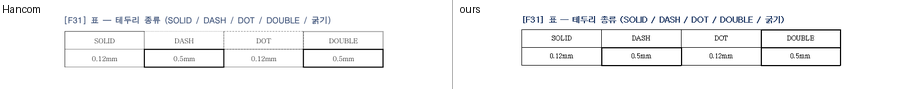
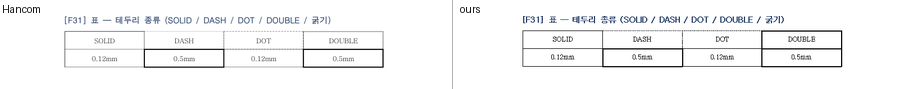
docs: re-measure render-check-01 on the converged tree
`render_check.py` re-run at 96 dpi against the same Hancom reference:
report.json, the markdown result table and all 51 strips regenerated.

**1 · 32 · 16 · 2 -> 1 match · 35 close · 13 differs · 2 unsupported.**
Three features moved, each with a named mechanism:

- `F47` 표 — 쪽을 넘기는 표, IoU 0.025 -> 0.535, from the inline-table move
  rule (#210). Measured alone on the table-move head: 1 · 33 · 15 · 2.
- `F31` 표 — 테두리 종류, IoU 0.222 -> 0.376, and `F32` 표 — 셀 세로 정렬,
  IoU 0.205 -> 0.479, both from the `hp:outMargin` inset (#211) putting the
  table box where Hancom puts it.

The bundled-faces tier (#208) is a measured no-op on this document: it
declares only 바탕, 돋움, 궁서 and all three resolve installed
(`batang.ttc`, `gulim.ttc`), so `BundledFontMap` is never reached. That is
what makes the attribution above safe, and it also corrects a stale
*Not proven* bullet claiming no declared face resolves.

Means over 51 features: ssim 0.7813 -> 0.7918, ssim_inked 0.1218 -> 0.1396,
IoU 0.3429 -> 0.3728. Page agreement unchanged at 45/51. Page count moved
the wrong way, 10 -> 11 against Hancom's 9, and note 1 now says why: moving
the table whole removed the term that used to cancel the height drift.

Claude-Session: https://claude.ai/code/session_018vMb825boFbJ811WVqBuS4

Changed region(s): [[0.5575, 0.3146, 0.9602, 0.764]]

diff --git a/docs/research/render-check-01.md b/docs/research/render-check-01.md
@@ -29,7 +29,7 @@ python engine/scripts/render_check.py \
 | Reference | Hwp 2024 13.0.0.2986 / Hancom PDF 1.3.0.550, via `com_backend.py convert` |
 | Candidate | `rigorloom-own` 0.1.0, grade `own-uncertified`, `--dpi 96`, default `auto` layout policy |
 | 1:1 | `render_scoreboard.reference_geometry_scale` = **0.995** (declared median 10.00 pt vs reference median 9.95 pt, tolerance 0.05) — comparable, no scale correction applied |
-| Page count | reference **9**, candidate **10** — *not* exact; see note 1 |
+| Page count | reference **9**, candidate **11** — *not* exact; see note 1 |
 | Hancom acceptance | a COM open+save round-trip of the document keeps all 51 feature elements |
 
 Regions are derived, never hand-placed, and the two sides are located
@@ -70,7 +70,27 @@ has been scored with them.
 
 ## Result
 
-**1 match · 32 close · 16 differs · 2 unsupported** over 51 features.
+**1 match · 35 close · 13 differs · 2 unsupported** over 51 features.
+
+Measured on the converged E2 tree (`claude/engine-e2-converge`: the
+`hp:outMargin` registration fix #211, the bundled Korean fallback faces #208
+and the inline-table move rule #210 in one tree). Three features moved off
+`differs` since this page was first written against the pre-convergence tree
+(**1 · 32 · 16 · 2**):
+
+| feature | before | after | mechanism |
+|---|---|---|---|
+| `F47` 표 — 쪽을 넘기는 표 | IoU 0.025 `differs` | IoU 0.535 `close` | #210 — an inline (글자처럼 취급) table never splits; it moves whole, as Hancom's does. See note 2 |
+| `F31` 표 — 테두리 종류 | IoU 0.222 `differs` | IoU 0.376 `close` | #211 — the `hp:outMargin` inset puts the table box where Hancom puts it, so the grids overlap. See note 3 |
+| `F32` 표 — 셀 세로 정렬 | IoU 0.205 `differs` | IoU 0.479 `close` | #211, same inset |
+
+Means over the 51 features: `ssim` 0.7813 → 0.7918, `ssim_inked` 0.1218 →
+0.1396, IoU 0.3429 → 0.3728. Page agreement is unchanged at 45/51 — the same
+six features (`F44`–`F49`) still land on a different page in the two engines.
+The bundled-fonts tier (#208) changed **nothing** on this document: it
+declares only 바탕, 돋움 and 궁서, all three installed on the measuring
+machine, so the installed tier wins and `BundledFontMap` is never consulted.
+This is the first measurement with registration and fonts in one tree.
 
 | feature | ssim | ssim(inked) | IoU | ink Δ | page | verdict |
 |---|---|---|---|---|---|---|
@@ -100,12 +120,12 @@ has been scored with them.
 | `F24` [글꼴 — 돋움 (declared face 돋움)](render-check-01/F24.png) | 0.788 | 0.103 | 0.463 | +0.0092 | 3 | **close** |
 | `F25` [글꼴 — 궁서 (declared face 궁서)](render-check-01/F25.png) | 0.803 | 0.186 | 0.477 | +0.0012 | 3 | **close** |
 | `F26` [글자 크기 8 / 10 / 12 / 14 / 18 / 24 pt](render-check-01/F26.png) | 0.848 | 0.170 | 0.409 | +0.0085 | 3 | **close** |
-| `F27` [표 — 기본 격자 (plain grid 3×3)](render-check-01/F27.png) | 0.760 | -0.044 | 0.154 | +0.0175 | 3 | **differs** |
-| `F28` [표 — 셀 병합 (colSpan 2 + rowSpan 2)](render-check-01/F28.png) | 0.740 | 0.051 | 0.137 | +0.0329 | 3 | **differs** |
-| `F29` [표 — 셀 음영 (cell shading #D9D9D9)](render-check-01/F29.png) | 0.748 | 0.285 | 0.309 | +0.0084 | 4 | **close** |
+| `F27` [표 — 기본 격자 (plain grid 3×3)](render-check-01/F27.png) | 0.773 | 0.003 | 0.294 | +0.0175 | 3 | **differs** |
+| `F28` [표 — 셀 병합 (colSpan 2 + rowSpan 2)](render-check-01/F28.png) | 0.747 | 0.052 | 0.137 | +0.0329 | 3 | **differs** |
+| `F29` [표 — 셀 음영 (cell shading #D9D9D9)](render-check-01/F29.png) | 0.894 | 0.700 | 0.757 | +0.0084 | 4 | **close** |
 | `F30` [캡션 — 표 (table caption)](render-check-01/F30.png) | 0.901 | 0.215 | 0.498 | +0.0120 | 4 | **close** |
-| `F31` [표 — 테두리 종류 (SOLID / DASH / DOT / DOUBLE / 굵기)](render-check-01/F31.png) | 0.674 | -0.031 | 0.222 | +0.0208 | 4 | **differs** |
-| `F32` [표 — 셀 세로 정렬 (TOP / CENTER / BOTTOM)](render-check-01/F32.png) | 0.822 | -0.047 | 0.205 | +0.0067 | 4 | **differs** |
+| `F31` [표 — 테두리 종류 (SOLID / DASH / DOT / DOUBLE / 굵기)](render-check-01/F31.png) | 0.723 | 0.117 | 0.376 | +0.0198 | 4 | **close** |
+| `F32` [표 — 셀 세로 정렬 (TOP / CENTER / BOTTOM)](render-check-01/F32.png) | 0.836 | 0.031 | 0.479 | +0.0067 | 4 | **close** |
 | `F33` [그림 — 본문 안 (inline, treatAsChar)](render-check-01/F33.png) | 0.865 | 0.234 | 0.481 | +0.0041 | 4 | **close** |
 | `F34` [캡션 — 그림 (image caption)](render-check-01/F34.png) | 0.831 | 0.108 | 0.401 | +0.0144 | 4 | **close** |
 | `F35` [그림 — 어울림 TOP_AND_BOTTOM (anchored, text wrap)](render-check-01/F35.png) | 0.825 | 0.255 | 0.317 | -0.0098 | 4 | **close** |
@@ -120,9 +140,9 @@ has been scored with them.
 | `F44` [하이퍼링크 (hyperlink field)](render-check-01/F44.png) | 0.843 | 0.122 | 0.432 | +0.0224 | 5/6 | **close** |
 | `F45` [글상자 / 그리기 개체 사각형 (text box)](render-check-01/F45.png) | 0.977 | 0.584 | 0.197 | -0.0024 | 5/6 | **unsupported** |
 | `F46` [쪽 나누기 (page break, pageBreakBefore)](render-check-01/F46.png) | 0.798 | 0.200 | 0.524 | +0.0190 | 6/7 | **close** |
-| `F47` [표 — 쪽을 넘기는 표 (table split across a page)](render-check-01/F47.png) | 0.686 | 0.018 | 0.025 | +0.0406 | 6/7 | **differs** |
-| `F48` [구역 나누기 — 가로 용지 + 다른 여백 (section break, landscape)](render-check-01/F48.png) | 0.943 | 0.068 | 0.268 | +0.0036 | 8/9 | **differs** |
-| `F49` [다단 — 2단 구역 (two-column section)](render-check-01/F49.png) | 0.818 | 0.051 | 0.150 | +0.0085 | 9/10 | **differs** |
+| `F47` [표 — 쪽을 넘기는 표 (table split across a page)](render-check-01/F47.png) | 0.993 | 0.240 | 0.535 | +0.0008 | 6/7 | **close** |
+| `F48` [구역 나누기 — 가로 용지 + 다른 여백 (section break, landscape)](render-check-01/F48.png) | 0.943 | 0.068 | 0.268 | +0.0036 | 8/10 | **differs** |
+| `F49` [다단 — 2단 구역 (two-column section)](render-check-01/F49.png) | 0.818 | 0.051 | 0.150 | +0.0085 | 9/11 | **differs** |
 | `F50` [머리말 (header)](render-check-01/F50.png) | 0.940 | 0.153 | 0.153 | +0.0090 | 1 | **differs** |
 | `F51` [꼬리말 + 쪽 번호 (footer with page number)](render-check-01/F51.png) | 0.974 | 0.154 | 0.156 | +0.0030 | 1 | **unsupported** |
 
@@ -135,7 +155,7 @@ per-feature `band_px` and the declared limits each feature owns, are in
 
 ### 1. Pagination drift: we run one page longer than Hancom
 
-Ours is 10 pages against Hancom's 9, and six features (`F44`–`F49`) land on a
+Ours is 11 pages against Hancom's 9, and six features (`F44`–`F49`) land on a
 different page in the two engines. Two more are page-boundary artefacts rather
 than feature failures: for `F17` (진하게) the reference band is 20 px and ours
 is 77 px, because Hancom pushed the content paragraph onto the next page while
@@ -147,6 +167,13 @@ side — visible in the alignment blocks, where the same filler is three lines
 for us and two or three for Hancom depending on where the space advance lands
 — and that accumulates down the page. On top of that Hancom moves a block that
 would be badly split, where we split in place: see note 2.
+
+*Since fixed, and it cost a page.* Note 2's rule landed, so we no longer split
+that table in place — we move it whole, as Hancom does. That removed the
+second contribution and made the drift **worse** by one page (10 → 11), which
+is the honest outcome: moving the table whole pushes its rows down instead of
+filling the room the split used. The residual is now entirely the first
+contribution, block heights running tall.
 
 ### 2. `F47` 표 — 쪽을 넘기는 표 (IoU 0.025, the largest gap)
 
@@ -168,10 +195,11 @@ the split rule. `own_render`'s own `block_not_honored` list already names
 > that is still too short for it, overflows. Eleven probe variants and three
 > Hancom-authored controls, no exception:
 > [table-page-break-rule.md](table-page-break-rule.md). Fixed there; `F47`
-> now reads `close` (IoU 0.025 → 0.535) and the numbers in the table above
-> are the pre-fix ones this page was written against.
+> now reads `close` (IoU 0.025 → 0.535, ssim 0.686 → 0.993), and the table
+> above carries the post-fix numbers. Heading and body kept as written, since
+> they record the state the rule was found from.
 
-### 3. Every table block is vertically compressed (`F27` 0.154, `F32` 0.205, `F31` 0.222)
+### 3. Every table block is vertically compressed (`F27` 0.294, `F32` 0.479, `F31` 0.376)
 
 The grids are drawn correctly — right columns, right merges, right shading —
 but our rows are visibly shorter than Hancom's, so nothing lines up
@@ -180,6 +208,14 @@ vertically.
 *Mechanism guess.* Row height is taken from content (max over cells) and the
 declared `hp:cellSz@height` of 2400 HWPUNIT is not treated as a floor. This
 matches `own-render-notes.md`'s own description of `solve_tracks`.
+
+> **Half of it was registration, not row height.** The `hp:outMargin` inset
+> (#211) moved every table box by the object's own outer margin, and these
+> three features gained most of what the convergence gained: `F27`
+> 0.154 → 0.294 (still `differs`), `F32` 0.205 → 0.479 and `F31`
+> 0.222 → 0.376 (both now `close`). The heading numbers above are the
+> post-convergence ones. What is left is genuinely row height — the rows are
+> still short, they are simply no longer short *and* offset.
 
 ### 4. `F49` 다단 — 2단 구역 (IoU 0.150)
 
@@ -255,7 +291,9 @@ size of the gap:
    grew rather than shrank: the candidate now runs 11 pages to Hancom's 9,
    because the extra page and the unmoved table used to cancel out.
 2. Table row height ignores the declared `hp:cellSz@height` floor
-   (`F27`, `F28`, `F31`, `F32`).
+   (`F27`, `F28`, `F31`, `F32`). Half of what this item was worth turned out
+   to be the `hp:outMargin` offset, now fixed (#211); `F31` and `F32` read
+   `close` on the residual, `F27` and `F28` still `differs`.
 3. `hp:colPr` applied from the head of the section where Hancom does not
    (`F49`).
 4. Header/footer horizontal placement (`F50`, `F51`).
@@ -279,11 +317,19 @@ drawn.
 - **The mechanisms above are guesses.** Each is consistent with the strips and
   with the renderer's own notes, but none was confirmed by reading or
   instrumenting the renderer — that was out of scope for this pass.
-- **Font substitution is the ceiling and was not isolated.** No declared face
-  (바탕 · 돋움 · 궁서) is available to the renderer, so every text feature is
-  compared across two different typefaces. How much of each `close` verdict is
-  substitution and how much is layout is unmeasured; it would take a run with
-  the real faces installed to separate them.
-- **`ssim_inked` is reported but uninterpreted.** It is negative on three
-  table features, which is a legitimate SSIM outcome on anti-correlated
+- **Font substitution is the ceiling and was not isolated.** All three
+  declared faces (바탕 · 돋움 · 궁서) do resolve on the measuring machine —
+  `batang.ttc` and `gulim.ttc`, checked against `SystemFontIndex` — so the
+  comparison is not across two arbitrary typefaces. It is still not the same
+  rasteriser or the same hinting as Hancom's, and how much of each `close`
+  verdict is shaping and how much is layout stays unmeasured. The bundled
+  fallback tier (#208) is therefore untested by this document: it is never
+  reached.
+- **`ssim_inked` is reported but uninterpreted.** It is negative on one
+  table feature (`F27`), which is a legitimate SSIM outcome on anti-correlated
   blocks, but no meaning is attached to the magnitude here.
+- **The convergence deltas are attributed, not isolated per slice by
+  re-render.** `F47` was measured on the table-move head alone (1 · 33 · 15 ·
+  2); `F31`/`F32` moved only once registration joined it, and no run isolates
+  registration from fonts — the fonts tier is a proven no-op here, which is
+  what makes the attribution safe.
